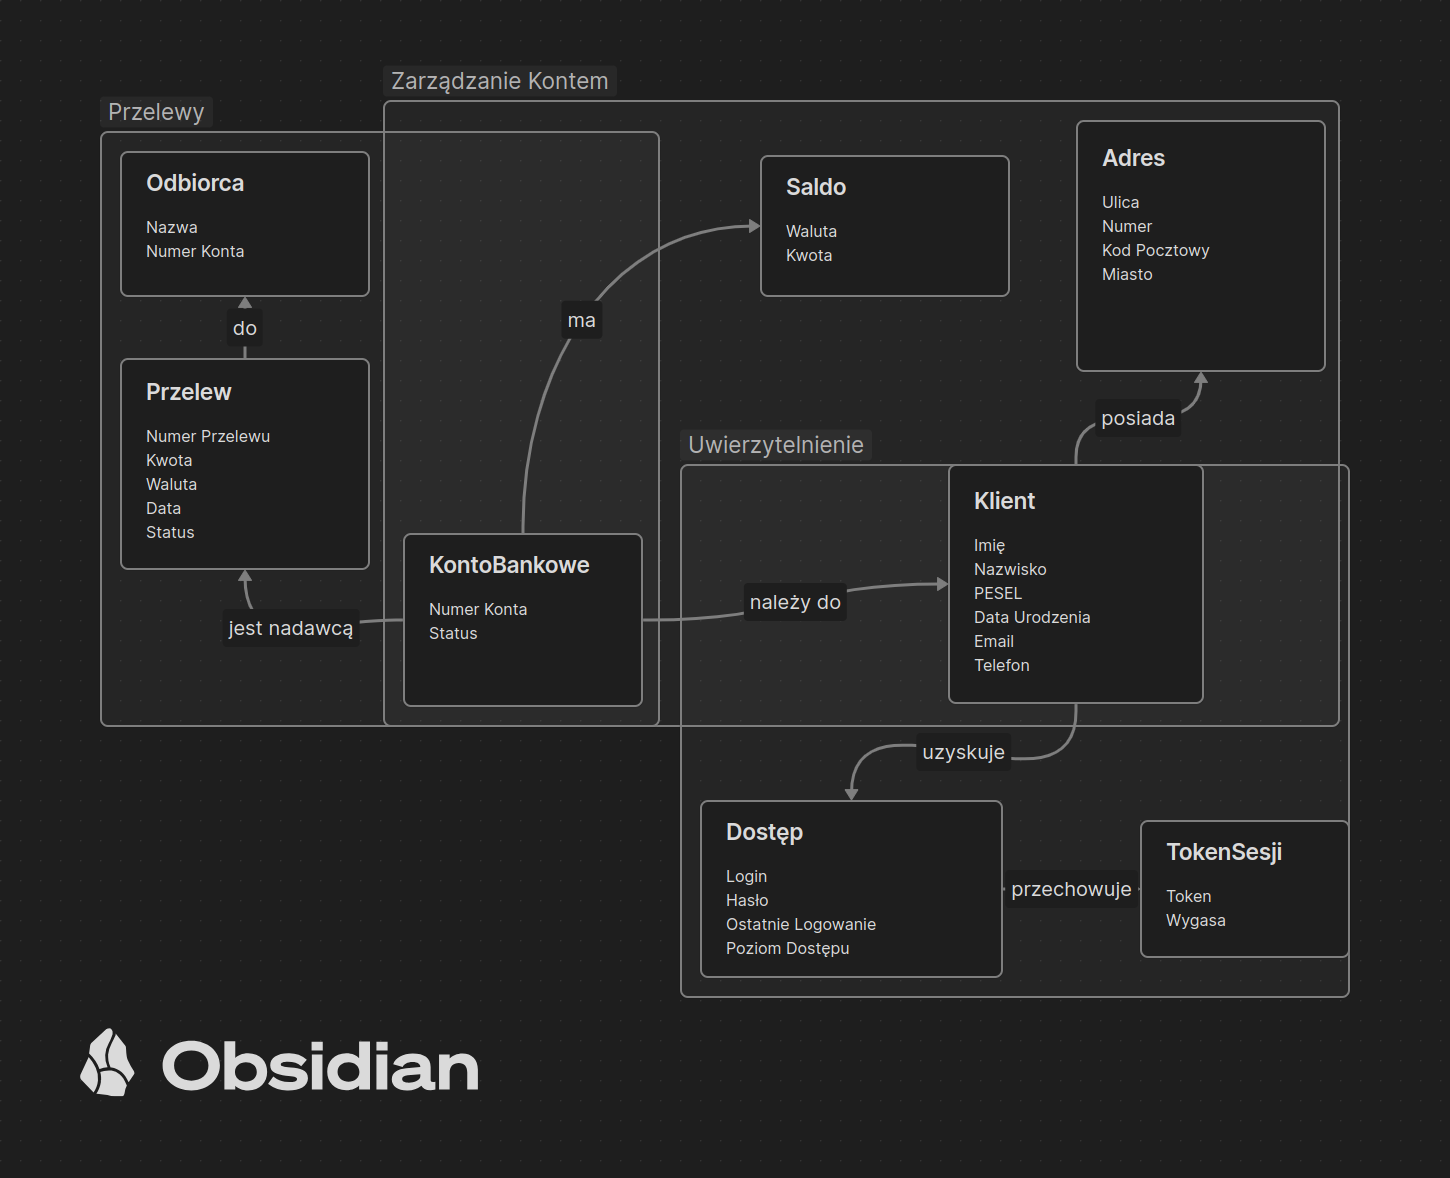
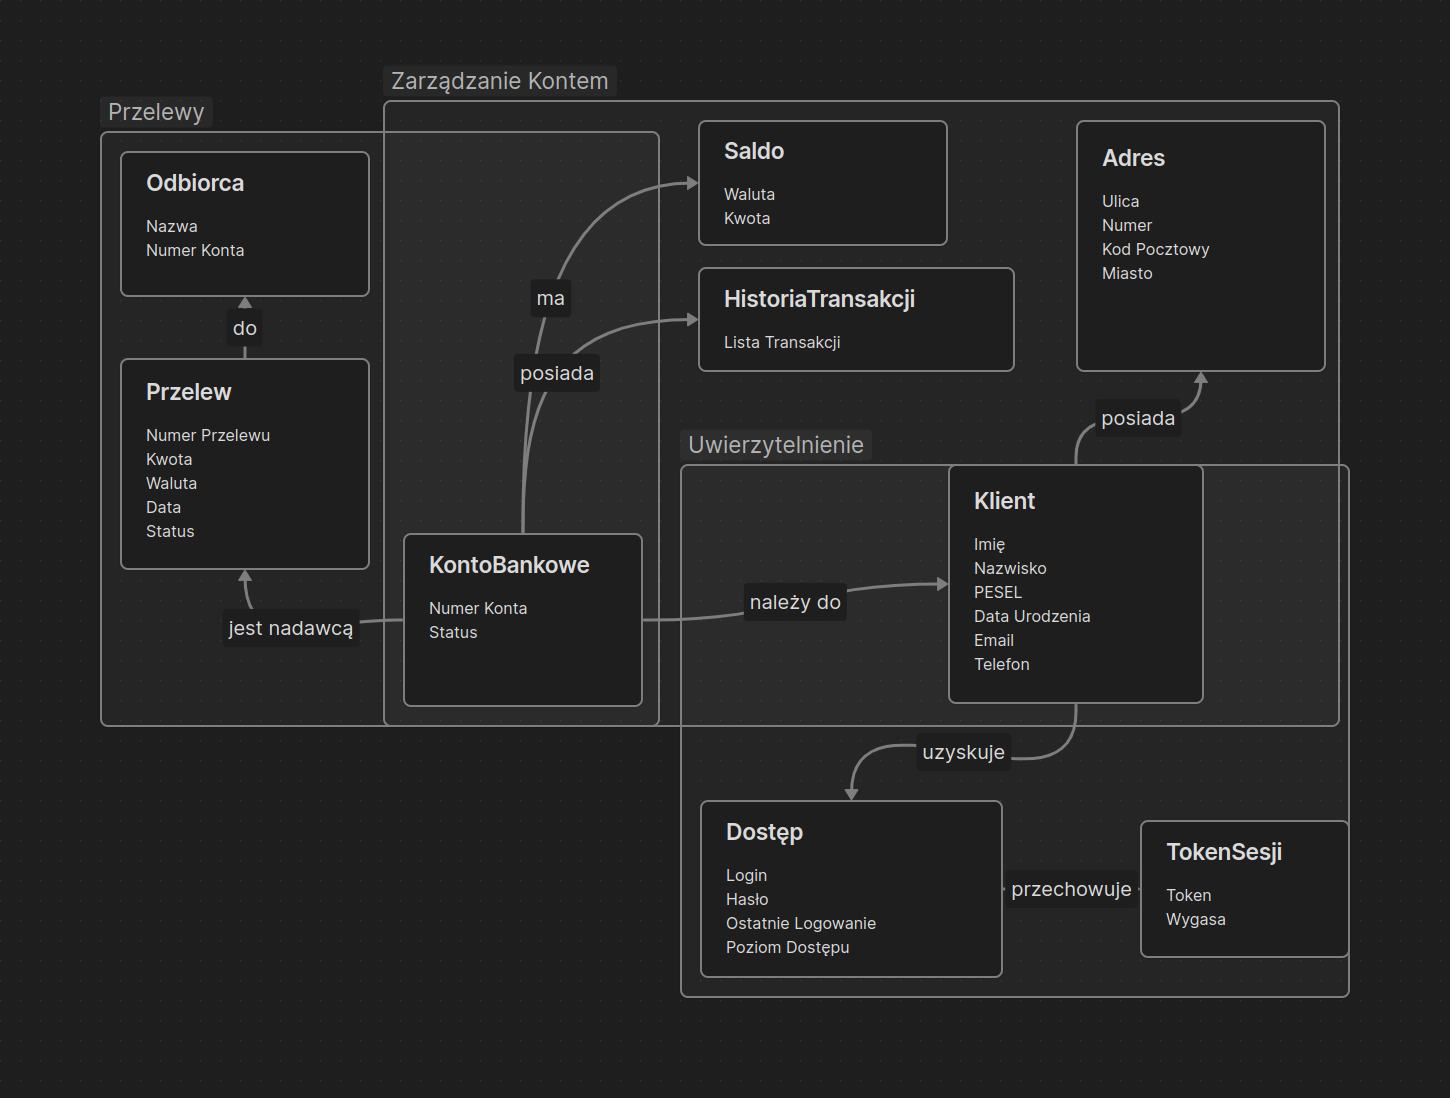
model.png update

diff --git a/DDD.md b/DDD.md
@@ -28,27 +28,26 @@ System został podzielony na trzy główne Bounded Contexty:
 - **Encje**:
   - `Przelew`: Reprezentuje operację przelewu z numerem przelewu, kwotą, walutą, datą i statusem (np. zlecony, zrealizowany).
 - **Obiekty Wartości**:
-  - `KwotaPrzelewu`: Przechowuje wartość przelewu wraz z walutą (np. PLN, EUR).
   - `Odbiorca`: Informacje o odbiorcy przelewu (nazwa, numer konta).
   
 #### Agregat: Uwierzytelnienie
 - **Encje**:
-  - `KlientUwierzytelniony`: Reprezentuje konto użytkownika w systemie z atrybutami takimi jak login, hasło (zahaszowane) oraz ostatnie logowanie.
+  - `Dostęp`: Reprezentuje konto użytkownika w systemie z atrybutami takimi jak login, hasło (zahaszowane) oraz ostatnie logowanie.
 - **Obiekty Wartości**:
   - `PoziomDostępu`: Reprezentuje poziom dostępu użytkownika (np. podstawowy, pełny, administrator).
   - `TokenSesji`: Przechowuje unikalny token sesji dla użytkownika wraz z czasem jego wygaśnięcia.
 
 ### Założenia i Ograniczenia
 
-| Encja/Obiekt Wartości     | Atrybuty                                 | Ograniczenia/Opis                                                                                                                                           |
-|---------------------------|------------------------------------------|-------------------------------------------------------------------------------------------------------------------------------------------------------------|
-| `KontoBankowe`            | numerKonta, saldo, status                | Numer konta jest unikalny; saldo przechowywane jako Money w walucie PLN; status może przyjąć wartości: aktywne, zablokowane                                 |
-| `Klient`                  | imie, nazwisko, PESEL, dataUrodzenia, email, telefon | PESEL jest unikalny i w formacie 11 cyfr; email w formacie "użytkownik@domena.tld"; telefon jako numer krajowy (+48XXXXXXXXX)                               |
-| `Adres`                   | ulica, numer, kodPocztowy, miasto         | Kod pocztowy w formacie XX-XXX                                                                                                                              |
-| `Przelew`                 | numerPrzelewu, kwota, waluta, data, status | Numer przelewu unikalny; status przelewu: zlecony, zrealizowany, anulowany                                                                                  |
-| `KwotaPrzelewu`           | kwota, waluta                            | Waluta przelewu musi być zgodna z walutą konta; kwota przechowywana jako Money                                                                              |
-| `Odbiorca`                | nazwa, numerKonta                        | Numer konta odbiorcy musi być poprawny i unikalny                                                                                                           |
-| `KlientUwierzytelniony`   | login, hasło, ostatnieLogowanie          | Login musi być unikalny; hasło przechowywane w formie haszowanej; ostatnie logowanie w formacie LocalDateTime                                               |
-| `PoziomDostępu`           | poziom                                   | Poziomy dostępu: podstawowy, pełny, administrator                                                                                                           |
-| `TokenSesji`              | token, wygasa                            | Token jest unikalnym identyfikatorem sesji; data wygaśnięcia tokena przechowywana jako LocalDateTime                                                        |
-| `HistoriaTransakcji`      | listaTransakcji                          | Lista zawiera szczegóły każdej transakcji (numer, data, kwota, typ: np. przelew, wpłata, wypłata) i jest sortowana według daty od najnowszej do najstarszej |
+| Encja/Obiekt Wartości | Atrybuty                                 | Ograniczenia/Opis                                                                                                                                           |
+|-----------------------|------------------------------------------|-------------------------------------------------------------------------------------------------------------------------------------------------------------|
+| `KontoBankowe`        | numerKonta, saldo, status                | Numer konta jest unikalny; saldo przechowywane jako Money w walucie PLN; status może przyjąć wartości: aktywne, zablokowane                                 |
+| `Klient`              | imie, nazwisko, PESEL, dataUrodzenia, email, telefon | PESEL jest unikalny i w formacie 11 cyfr; email w formacie "użytkownik@domena.tld"; telefon jako numer krajowy (+48XXXXXXXXX)                               |
+| `Adres`               | ulica, numer, kodPocztowy, miasto         | Kod pocztowy w formacie XX-XXX                                                                                                                              |
+| `Przelew`             | numerPrzelewu, kwota, waluta, data, status | Numer przelewu unikalny; status przelewu: zlecony, zrealizowany, anulowany                                                                                  |
+| `KwotaPrzelewu`       | kwota, waluta                            | Waluta przelewu musi być zgodna z walutą konta; kwota przechowywana jako Money                                                                              |
+| `Odbiorca`            | nazwa, numerKonta                        | Numer konta odbiorcy musi być poprawny i unikalny                                                                                                           |
+| `Dostęp`              | login, hasło, ostatnieLogowanie          | Login musi być unikalny; hasło przechowywane w formie haszowanej; ostatnie logowanie w formacie LocalDateTime                                               |
+| `PoziomDostępu`       | poziom                                   | Poziomy dostępu: podstawowy, pełny, administrator                                                                                                           |
+| `TokenSesji`          | token, wygasa                            | Token jest unikalnym identyfikatorem sesji; data wygaśnięcia tokena przechowywana jako LocalDateTime                                                        |
+| `HistoriaTransakcji`  | listaTransakcji                          | Lista zawiera szczegóły każdej transakcji (numer, data, kwota, typ: np. przelew, wpłata, wypłata) i jest sortowana według daty od najnowszej do najstarszej |
